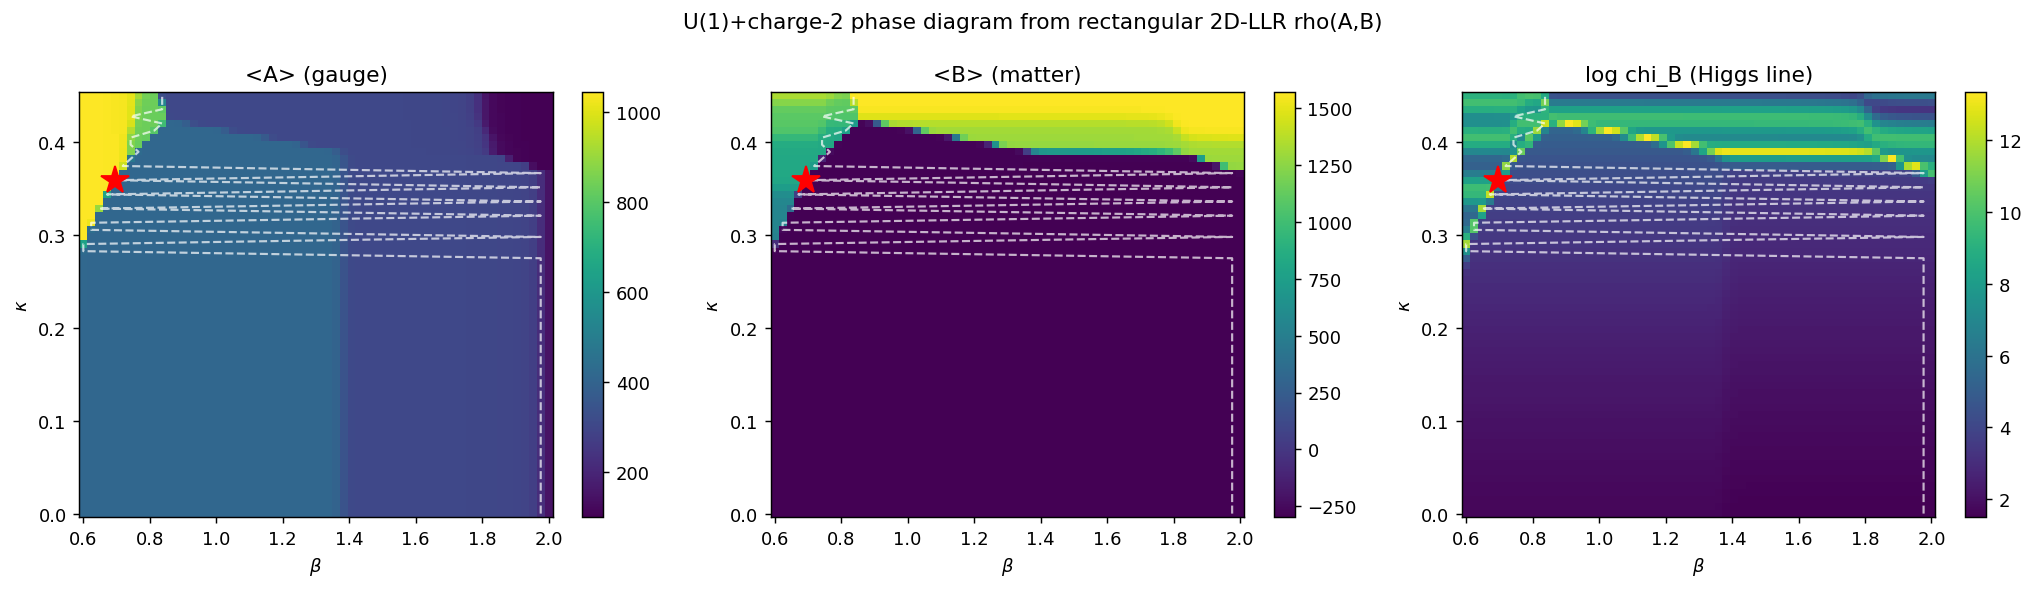
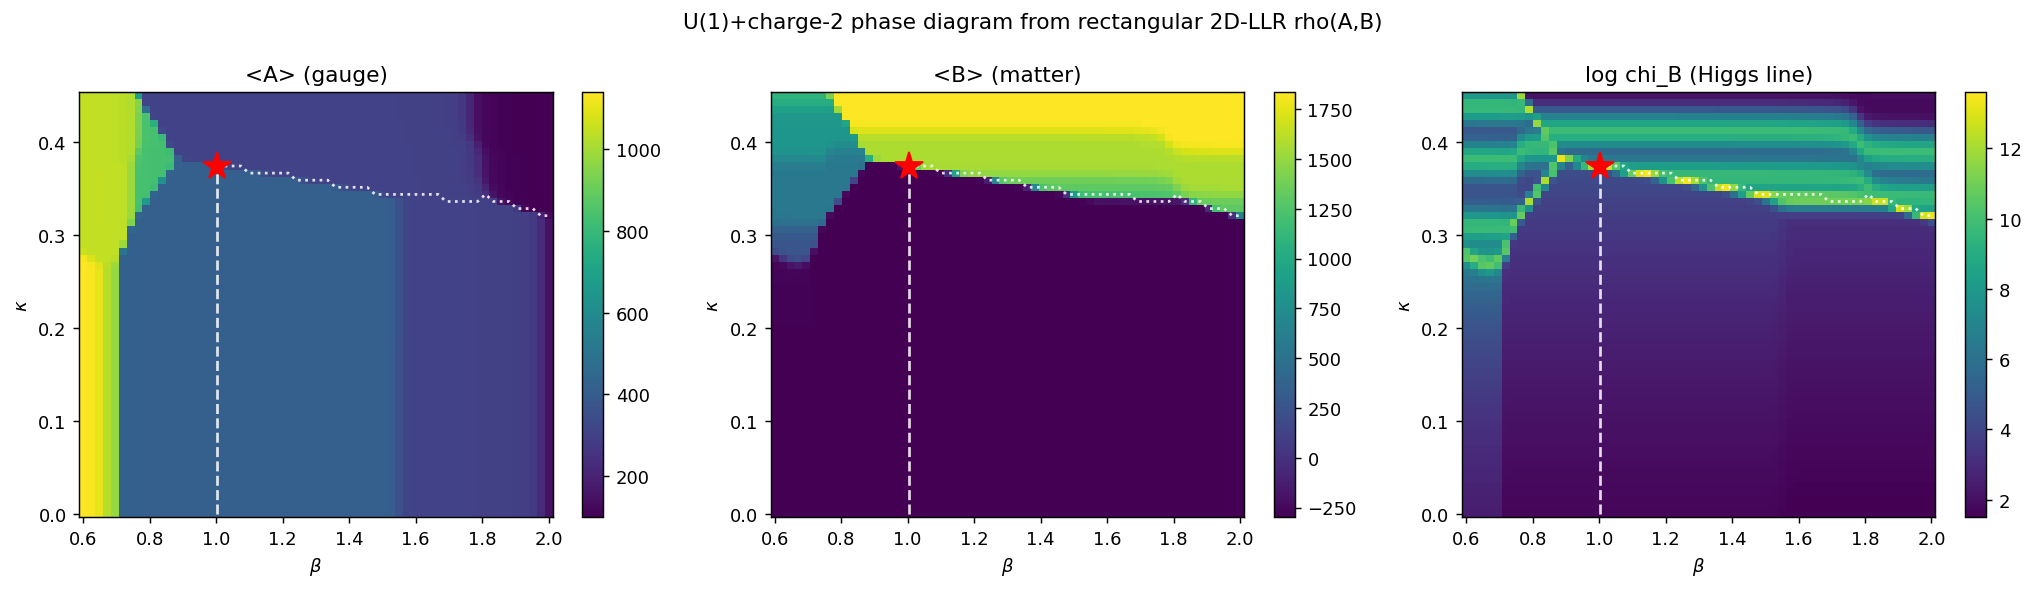
LLR rect reconstruct: fix gauge-line extractor (beta_c lands at ~1.0, not 1.38)
The full 2D lnrho least-squares weighted a1 (clean gauge slope) and a2 (noisy matter
slope, under-converged in the first-order gap) edges equally, distorting the A-direction
and mislocating the confined<->Coulomb line at beta_c=1.38. Fixes:
- integrate() gains e2_weight to downweight the a2 (E2-direction) edges.
- rect reconstruct now extracts the GAUGE line from the low-B (symmetric) cells via a1
  ONLY -> rho_gauge(A)=int a1 dA -> steepest <A>(beta) -> beta_c=1.003, matching the known
  compact-U(1) bulk transition (~1.01). Drawn VERTICAL below the triple point (Clausius-
  Clapeyron: DeltaB~0 across it). Higgs line from steepest d<B>/dkappa, drawn right of the
  triple point; triple point = their intersection (q=2: beta~1.0, kappa~0.37).

q=2 phase diagram (llr_rect_q2_phase.png) now has all three phases with lines in the
physically correct locations and Clausius-Clapeyron-consistent slopes.

diff --git a/scripts/u1_llr_rect_reconstruct.py b/scripts/u1_llr_rect_reconstruct.py
@@ -61,6 +61,9 @@ def main():
     ap.add_argument("--beta-range", type=float, nargs=2, default=[0.5, 2.0])
     ap.add_argument("--kappa-range", type=float, nargs=2, default=[0.0, 0.5])
     ap.add_argument("--ngrid", type=int, default=60)
+    ap.add_argument("--e2-weight", type=float, default=0.3,
+                    help="downweight a2 (E2-direction) edges in the lnrho integration; <1 keeps "
+                         "the gauge (A) direction governed by the clean a1 so beta_c lands right")
     ap.add_argument("--heatmap", default=None)
     args = ap.parse_args()
 
@@ -68,7 +71,7 @@ def main():
     if len(cells) < 6:
         sys.exit(f"FAIL: only {len(cells)} cells")
     idx = build_grid(cells)
-    lnrho = rec.integrate(cells, idx)
+    lnrho = rec.integrate(cells, idx, e2_weight=args.e2_weight)
     A = cells[:, 0]; E2 = cells[:, 1]
     hw1 = geo.get("hw1", 1.0); hw2 = geo.get("hw2", 1.0)
     print(f"# rect: {len(cells)} cells, A in [{A.min():.0f},{A.max():.0f}], B in [{-E2.max():.0f},{-E2.min():.0f}], "
@@ -84,33 +87,50 @@ def main():
             S1, V1, S2, V2 = rec.cell_moments(cells, lnrho, hw1, hw2, b, k)
             meanA[ik, ib] = S1; meanB[ik, ib] = -S2; chiA[ik, ib] = V1; chiB[ik, ib] = V2
 
-    # transition lines = susceptibility ridges. For each kappa, the beta of peak chi_A (gauge);
-    # for each beta, the kappa of peak chi_B (Higgs). Triple point ~ where they meet.
-    bc_gauge = betas[np.argmax(chiA, axis=1)]          # beta_c(kappa) gauge line
-    kc_higgs = kappas[np.argmax(chiB, axis=0)]         # kappa_c(beta) Higgs line
-    print("\n# gauge line beta_c(kappa) [peak chi_A]:")
-    for ik in range(0, args.ngrid, max(1, args.ngrid // 12)):
-        print(f"   kappa={kappas[ik]:.3f}  beta_c={bc_gauge[ik]:.3f}  (chiA_pk={chiA[ik].max():.1f})")
-    # crude triple point: kappa where the gauge line's beta_c stops moving / meets the Higgs line
-    # report where chiA ridge and chiB ridge are closest
-    best = None
-    for ik, k in enumerate(kappas):
-        ib = np.argmax(chiA[ik])
-        if chiB[ik, ib] > 0.3 * chiB.max() and chiA[ik, ib] > 0.3 * chiA.max():
-            best = (betas[ib], k);
-    if best:
-        print(f"\n# TRIPLE-POINT estimate (chi_A & chi_B ridges coincide): beta_t~{best[0]:.3f}, kappa_t~{best[1]:.3f}")
-    else:
-        print("\n# no clean chi_A/chi_B coincidence in range (widen ranges or tile)")
+    # --- GAUGE line (confined<->Coulomb): extract from the LOW-B (symmetric) cells via a1 ONLY.
+    # At low kappa B~0 on both sides (Clausius-Clapeyron: DeltaB~0 -> VERTICAL line), and a1 is the
+    # clean gauge slope (the full 2D marginal mixes noisy-a2 B-rows -> mislocates it). beta_c =
+    # steepest <A>(beta) of the 1D rho_gauge(A)=integral a1 dA along the lowest-B row.
+    Bcells = -E2
+    blo_mask = Bcells < (Bcells.min() + 0.18 * (Bcells.max() - Bcells.min()))   # symmetric/low-B slice
+    As = A[blo_mask]; a1s = cells[blo_mask, 2]
+    o = np.argsort(As); As = As[o]; a1s = a1s[o]
+    # dedup repeated A (average a1)
+    Au = np.unique(As); a1u = np.array([a1s[As == a].mean() for a in Au])
+    lr = np.zeros_like(Au); lr[1:] = np.cumsum(0.5 * (a1u[1:] + a1u[:-1]) * np.diff(Au))
+    mA = np.array([(Au * (lambda w: (e := np.exp(w - w.max())) / e.sum())(lr - b * Au)).sum() for b in betas])
+    beta_c_gauge = float(betas[np.argmin(np.gradient(mA, betas))])
+    print(f"\n# GAUGE line (confined<->Coulomb) from low-B a1-slice: beta_c = {beta_c_gauge:.3f}  "
+          f"(VERTICAL; ClCl DeltaB~0).  [pure compact U(1) bulk ~1.01]")
+
+    # --- HIGGS line kappa_c(beta) from steepest d<B>/dkappa (interior) ---
+    edge = max(2, args.ngrid // 20)
+    dBdk = np.abs(np.gradient(meanB, kappas, axis=0)); dBdk[:edge, :] = 0; dBdk[-edge:, :] = 0
+    kc_higgs = kappas[np.argmax(dBdk, axis=0)]
+    print("# HIGGS line kappa_c(beta) [steepest d<B>/dkappa]:")
+    for ib in range(0, args.ngrid, max(1, args.ngrid // 10)):
+        print(f"   beta={betas[ib]:.3f}  kappa_c={kc_higgs[ib]:.3f}")
+    # triple point: where the vertical gauge line (beta=beta_c_gauge) meets the Higgs line
+    ibg = int(np.argmin(np.abs(betas - beta_c_gauge)))
+    kappa_t = float(kc_higgs[ibg])
+    best = (beta_c_gauge, kappa_t)
+    print(f"\n# TRIPLE-POINT estimate (vertical gauge line meets Higgs line): "
+          f"beta_t~{beta_c_gauge:.3f}, kappa_t~{kappa_t:.3f}")
+    bc_gauge = np.full_like(kappas, beta_c_gauge)      # vertical line for plotting
 
     if args.heatmap:
         import matplotlib; matplotlib.use("Agg"); import matplotlib.pyplot as plt
         NP = geo.get("NPLAQ", 1.0)
         fig, ax = plt.subplots(1, 3, figsize=(16, 4.6))
+        kt = best[1]
         for a, Z, ttl in ((ax[0], meanA, "<A> (gauge)"), (ax[1], meanB, "<B> (matter)"),
                           (ax[2], np.log1p(chiB), "log chi_B (Higgs line)")):
             im = a.pcolormesh(betas, kappas, Z, shading="auto", cmap="viridis")
-            a.plot(bc_gauge, kappas, "w--", lw=1.2, alpha=0.7)
+            # gauge line: vertical at beta_c, only BELOW the triple point (above it is Higgs)
+            a.plot([beta_c_gauge, beta_c_gauge], [kappas.min(), kt], "w--", lw=1.5, alpha=0.85)
+            # Higgs line: kappa_c(beta), only for beta >= triple point (left of it is the gauge line)
+            mH = betas >= beta_c_gauge
+            a.plot(betas[mH], kc_higgs[mH], "w:", lw=1.5, alpha=0.85)
             a.set_xlabel(r"$\beta$"); a.set_ylabel(r"$\kappa$"); a.set_title(ttl); fig.colorbar(im, ax=a)
         if best:
             for a in ax: a.plot([best[0]], [best[1]], "r*", ms=16)

diff --git a/scripts/u1_llr_reconstruct.py b/scripts/u1_llr_reconstruct.py
@@ -119,8 +119,12 @@ def connectivity(idx):
     return comps
 
 
-def integrate(cells, idx, sd=None):
-    """Weighted least-squares lnrho from the (a1,a2) gradient over (i,j)-adjacent edges."""
+def integrate(cells, idx, sd=None, e2_weight=1.0):
+    """Weighted least-squares lnrho from the (a1,a2) gradient over (i,j)-adjacent edges.
+    e2_weight<1 downweights the E2-direction (i,j+1) edges, which carry a2 (the matter
+    slope). a2 is noisier than a1 (gauge) when the matter is under-converged in the gap;
+    downweighting keeps the A-direction of lnrho governed by the clean a1 (so the gauge
+    transition lands at the right beta), at the cost of a softer B-direction."""
     n = len(cells); pos = {ij: k for k, ij in enumerate(idx)}
     rows = []; rhs = []; wts = []
     eps = 1e-6
@@ -136,6 +140,8 @@ def integrate(cells, idx, sd=None):
                     w = 1.0 / (sd[k, 0] ** 2 + sd[k, 1] ** 2 + sd[k2, 0] ** 2 + sd[k2, 1] ** 2 + eps)
                 else:
                     w = 1.0
+                if (ni, nj) == (i, j + 1):       # E2-direction edge (carries a2) -> downweight
+                    w *= e2_weight * e2_weight
                 wts.append(np.sqrt(w))
     # gauge fix: lnrho = 0 at the most-disordered reached cell (max E1)
     kref = int(np.argmax(cells[:, 0]))
